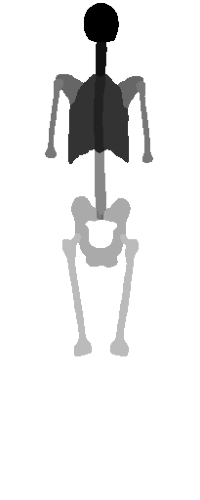
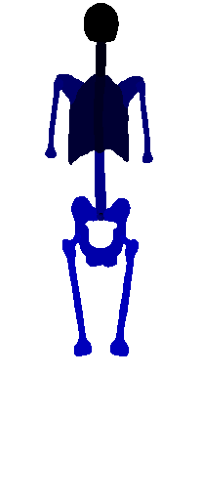
found bug on .pt

Changed region(s): [[0.21, 0.15, 0.78, 0.72], [0.51, 0.09, 0.54, 0.12]]

diff --git a/module/my_engine_modif.py b/module/my_engine_modif.py
@@ -59,43 +59,26 @@ def render_data(img_front, img_back):
         if i == 0: y_predv = tmp + 0
         else: y_predv = torch.cat([y_predv, tmp], axis=0)
 
+    # stop = timeit.default_timer()
+
+    # print('Time: ', stop - start)
+
     # ini warna
     cp = {
-        0 : [255, 255, 255],
-        1 : [0, 0, 0],
-        2 : [0,0,17],
-        3 : [0,0,34],
-        4 : [0,0,51],
-        5 : [0,0,68],
-        6 : [0,0,85],
-        7 : [0,0,102],
-        8 : [0,0,119],
-        9 : [0,0,136],
-        10 : [0,0,153],
-        11 : [0,0,170],
-        12 : [0,0,187],
-        # 13 : [204,204,204],
-        # 14 : [221,221,221],
-        # 15 : [238,238,238],
+        0 : [1.0       , 1.0       , 1.0       ],
+        1 : [0.6901961 , 0.9019608 , 0.05098039],
+        2 : [0.        , 0.5921569 , 0.85882354],
+        3 : [0.49411765, 0.9019608 , 0.8862745 ],
+        4 : [0.6509804 , 0.21568628, 0.654902  ],
+        5 : [0.9019608 , 0.6156863 , 0.7058824 ],
+        6 : [0.654902  , 0.43137255, 0.3019608 ],
+        7 : [0.47843137, 0.        , 0.09411765],
+        8 : [0.22352941, 0.25490198, 0.72156864],
+        9 : [0.9019608 , 0.85490197, 0.        ],
+        10 : [0.9019608 , 0.44705883, 0.13725491],
+        11 : [0.05098039, 0.7372549 , 0.24313726],
+        12 : [0.9019608 , 0.7137255 , 0.08627451]
     }
-    # cp = {
-    #     0 : [255, 255, 255],
-    #     1 : [0, 0, 0],
-    #     2 : [17,17,17],
-    #     3 : [34,34,34],
-    #     4 : [51,51,51],
-    #     5 : [68,68,68],
-    #     6 : [85,85,85],
-    #     7 : [102,102,102],
-    #     8 : [119,119,119],
-    #     9 : [136,136,136],
-    #     10 : [153,153,153],
-    #     11 : [170,170,170],
-    #     12 : [187,187,187],
-    #     # 13 : [204,204,204],
-    #     # 14 : [221,221,221],
-    #     # 15 : [238,238,238],
-    # }
 
     # pewarnaan disini
     def map_clr(mask):
@@ -124,14 +107,14 @@ def render_data(img_front, img_back):
     
     # depan
     # plt.subplot(2, n*2, (2*i)+1)
-    # ax.imshow(X_valid[vl_idx[i]][0].permute(1, 2, 0))
-    ax.imshow(map_clr(y_predv[vl_idx[i]][0].argmax(axis=0).numpy()), alpha=1)
+    ax.imshow(X_valid[vl_idx[i]][0].permute(1, 2, 0))
+    ax.imshow(map_clr(y_predv[vl_idx[i]][0].argmax(axis=0).numpy()), alpha=0.5)
 
-    plt.savefig('./static/crop_img/coba_f.png')
+    plt.savefig('./static/img_front_result.png')
 
     # belakang
     # plt.subplot(2, n*2, (2*i)+2)
     ax.imshow(X_valid[vl_idx[i]][1].permute(1, 2, 0))
-    ax.imshow(map_clr(y_predv[vl_idx[i]][1].argmax(axis=0).numpy()), alpha=1)
+    ax.imshow(map_clr(y_predv[vl_idx[i]][1].argmax(axis=0).numpy()), alpha=0.5)
 
-    plt.savefig('./static/crop_img/coba_b.png')
+    plt.savefig('./static/img_back_result.png')
